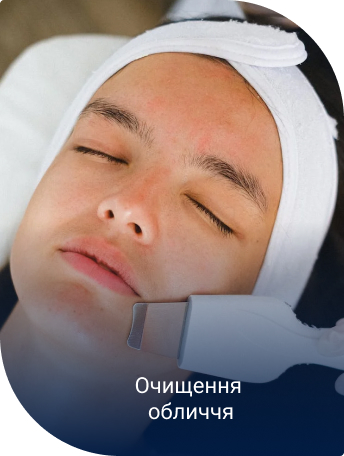
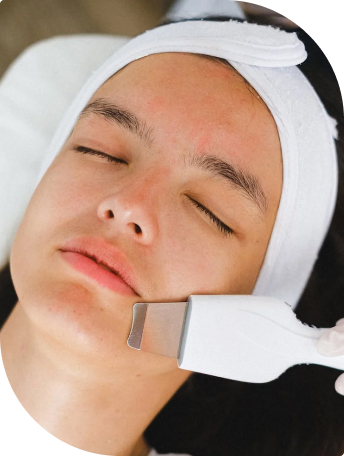
add styles

diff --git a/index.html b/index.html
@@ -11,10 +11,12 @@
       <nav>
         <a href="/"> <img src="./img/logo.svg" alt="Logo" /></a>
         <ul>
-          <li><a href="" target="_blank">Про нас</a></li>
-          <li><a href="" target="_blank">Чому ми</a></li>
-          <li><a href="" target="_blank">Наші процедури</a></li>
-          <li><a href="" target="_blank">Контакти</a></li>
+          <li><a class="header-link" href="#about_us">Про нас</a></li>
+          <li><a class="header-link" href="#advantages">Чому ми</a></li>
+          <li>
+            <a class="header-link" href="#our-procedures">Наші процедури</a>
+          </li>
+          <li><a class="header-link" href="#contacts">Контакти</a></li>
         </ul>
       </nav>
       <div>
@@ -28,56 +30,66 @@
     <main>
       <section class="hero">
         <p>Косметологічна клініка</p>
-        <h1>beauty zone</h1>
-        <button type="submit">Замовити дзвінок</button>
-        <p>Запишись та отримай безкоштовну консультацію нашого косметолога</p>
+        <h1 class="hero-title">beauty zone</h1>
+        <button class="hero-btn" type="submit">Замовити дзвінок</button>
+        <p class="hero-text">
+          Запишись та отримай безкоштовну консультацію нашого косметолога
+        </p>
       </section>
-      <section class="about_us">
-        <h2>Перевтілюйтесь в <span>beauty zone!</span></h2>
-        <p>
+      <section class="about_us" id="about_us">
+        <h2 class="section-title">
+          Перевтілюйтесь в
+          <span class="brand-name-accent-light">beauty zone!</span>
+        </h2>
+        <p class="about_us_text">
           Наша косметологічна клініка пропонує вам професійні послуги з догляду
           за шкірою обличчя та тіла.
         </p>
-        <p>
-          B <span>beauty zone</span> ми гарантуємо найвищі стандарти якості та
-          приємний сервіс. Наші косметологічні процедури та препарати допоможуть
-          вам підтримувати свою красу та молодість. З нами краса назавжди!
+        <p class="about_us_text">
+          B <span class="about_us_accent">beauty zone</span> ми гарантуємо
+          найвищі стандарти якості та приємний сервіс. Наші косметологічні
+          процедури та препарати допоможуть вам підтримувати свою красу та
+          молодість. З нами краса назавжди!
         </p>
         <ul>
           <li><img src="./img/beauty_face-before.jpg" alt="" /></li>
           <li><img src="./img/beauty_face-after.jpg" alt="" /></li>
         </ul>
       </section>
-      <section class="advatages">
-        <h2>Чому люди <span>обирають нас</span></h2>
+      <section class="advantages" id="advantages">
+        <h2 class="section-title">
+          Чому люди <span class="accent">обирають нас</span>
+        </h2>
         <ul>
           <li>
-            <p>
+            <p class="advantages-text">
               Всі наші косметологи мають вищу медичну освіту та стаж роботи від
               5 років
             </p>
           </li>
           <li>
-            <p>
+            <p class="advantages-text">
               Використовуємо тільки професійне обладнання та косметику,
               перевірену часом
             </p>
           </li>
           <li>
-            <p>
+            <p class="advantages-text">
               Наша мета - підкреслити переваги та приховати недоліки, а не
               переробити
             </p>
           </li>
         </ul>
       </section>
-      <section class="our-procedures">
-        <h2>Наші <span>процедури</span></h2>
+      <section class="our-procedures" id="our-procedures">
+        <h2 class="section-title">
+          Наші <span class="accent">процедури</span>
+        </h2>
         <ul>
           <li>
             <article>
               <img src="./img/face-masks.jpg" alt="Маски для обличчя" />
-              <p>Маски для обличчя</p>
+              <p class="our-procedures-text">Маски для обличчя</p>
             </article>
           </li>
           <li>
@@ -86,19 +98,19 @@
                 src="./img/facial-injections.jpg"
                 alt="Ін'єкції для обличчя"
               />
-              <p>Ін'єкції для обличчя</p>
+              <p class="our-procedures-text">Ін'єкції для обличчя</p>
             </article>
           </li>
           <li>
             <article>
               <img src="./img/facial-cleansing.jpg" alt="Очищення обличчя" />
-              <p>Очищення обличчя</p>
+              <p class="our-procedures-text">Очищення обличчя</p>
             </article>
           </li>
         </ul>
       </section>
-      <section class="contacts">
-        <h2>Як нас <span>знайти</span></h2>
+      <section class="contacts" id="contacts">
+        <h2 class="section-title">Як нас <span class="accent">знайти</span></h2>
         <iframe
           src="https://www.google.com/maps/embed?pb=!1m18!1m12!1m3!1d2540.939879501607!2d30.51555397557875!3d50.442220487957584!2m3!1f0!2f0!3f0!3m2!1i1024!2i768!4f13.1!3m3!1m2!1s0x40d4cef8b5f6338d%3A0x25c7f06ad686451c!2z0LHRg9C7LiDQotCw0YDQsNGB0LAg0KjQtdCy0YfQtdC90LrQviwgNSwg0JrQuNC10LIsINCj0LrRgNCw0LjQvdCwLCAwMjAwMA!5e0!3m2!1sru!2snl!4v1730913976104!5m2!1sru!2snl"
           width="605"
@@ -108,10 +120,16 @@
           loading="lazy"
           referrerpolicy="no-referrer-when-downgrade"
         ></iframe>
-        <h3>Запишіться <span>безкоштовно</span> та отримайте подарунок</h3>
-        <button type="submit">Записатись безкоштовно</button>
-        <a href="#"
-          >Натискаючи на кнопку я погоджуюсь з політикою конфіденційності</a
+        <h3 class="form-title">
+          Запишіться <span class="accent">безкоштовно</span> та отримайте
+          подарунок
+        </h3>
+        <button class="hero-btn" type="submit">Записатись безкоштовно</button>
+        <a class="form-confidentiality" href="#"
+          >Натискаючи на кнопку я погоджуюсь
+          <span class="form-confidentiality-accent"
+            >з політикою конфіденційності</span
+          ></a
         >
       </section>
     </main>
@@ -119,24 +137,34 @@
       <nav>
         <a href="/"> <img src="./img/logo.svg" alt="Logo" /></a>
         <ul>
-          <li><a href="">Про нас</a></li>
-          <li><a href="">Чому ми</a></li>
-          <li><a href="">Наші процедури</a></li>
-          <li><a href="">Контакти</a></li>
+          <li><a class="footer-link" href="#about_us">Про нас</a></li>
+          <li><a class="footer-link" href="#advantages">Чому ми</a></li>
+          <li>
+            <a class="footer-link" href="#our-procedures">Наші процедури</a>
+          </li>
+          <li><a class="footer-link" href="#contacts">Контакти</a></li>
         </ul>
       </nav>
       <address>
         <ul>
           <li>
-            <a href="tel:+380960000007" target="_blank">+ 38 (096) 000 00 07</a>
+            <a class="footer-link" href="tel:+380960000007" target="_blank"
+              >+ 38 (096) 000 00 07</a
+            >
           </li>
           <li>
-            <a href="mailto:beautyzone@gmail.com" target="_blank"
+            <a
+              class="footer-link"
+              href="mailto:beautyzone@gmail.com"
+              target="_blank"
               >beautyzone@gmail.com</a
             >
           </li>
           <li>
-            <a href="https://maps.app.goo.gl/NSAtxtw9QFGaa5sU6" target="_blank"
+            <a
+              class="footer-link"
+              href="https://maps.app.goo.gl/NSAtxtw9QFGaa5sU6"
+              target="_blank"
               >Україна, м. Київ, вул. Тараса Шевченка 5</a
             >
           </li>
@@ -145,8 +173,10 @@
           <li><a href="https://www.instagram.com/" target="_blank"></a></li>
         </ul>
         <div>
-          <a href="#" target="_blank">Політика конфіденційності</a>
-          <p>&copy; 2022 Дані захищені</p>
+          <a class="footer-link" href="#" target="_blank"
+            >Політика конфіденційності</a
+          >
+          <p class="footer-copyright">&copy; 2022 Дані захищені</p>
         </div>
       </address>
     </footer>

diff --git a/styles/styles.css b/styles/styles.css
@@ -25,3 +25,122 @@
   font-weight: 700;
   src: url("../fonts/play-v19-latin-700.woff2") format("woff2");
 }
+
+:root {
+  --color-brand-light: #2b7fff;
+  --color-brand-dark: #011c44;
+  --color-white: #fff;
+  --color-black: #000000;
+  --color-grey: #747272;
+}
+
+body {
+  color: var(--color-brand-dark);
+  font-family: "Roboto", sans-serif;
+  font-size: 18px;
+  font-weight: 400;
+}
+ul {
+  list-style-type: none;
+}
+a {
+  text-decoration: none;
+}
+
+.header-link {
+  color: var(--color-brand-dark);
+}
+.header-link:hover {
+  color: var(--color-brand-light);
+  font-weight: 700;
+}
+
+.hero-title {
+  font-family: "Play", sans-serif;
+  font-weight: 700;
+  font-size: 140px;
+  line-height: 0.8;
+  text-transform: capitalize;
+  color: var(--color-brand-light);
+}
+.hero-btn {
+  border-radius: 32px;
+  font-family: var(--font-family);
+  font-weight: 600;
+  color: var(--color-white);
+  background-color: var(--color-brand-light);
+  border: 2px solid var(--color-brand-light);
+  cursor: pointer;
+}
+.hero-btn:hover {
+  background-color: transparent;
+  color: var(--color-brand-dark);
+}
+.hero-text {
+  font-size: 12px;
+  line-height: 1.5;
+  color: #4a4a4a;
+}
+/* About us */
+
+.section-title {
+  font-family: "Play", sans-serif;
+  font-weight: 700;
+  font-size: 64px;
+  color: var(--color-brand-dark);
+}
+.brand-name-accent-light {
+  text-transform: capitalize;
+  color: var(--color-brand-light);
+}
+.accent {
+  color: var(--color-brand-light);
+}
+.about_us_text {
+  font-size: 22px;
+  line-height: 1.7;
+}
+.about_us_accent {
+  font-weight: 600;
+  text-transform: capitalize;
+}
+
+.advantages-text {
+  line-height: 1.3;
+  color: #000;
+}
+/* Our-Procedures */
+.our-procedures-text {
+  font-size: 22px;
+  line-height: 1.18;
+  color: var(--color-white);
+}
+
+/* Contacts */
+.form-title {
+  font-weight: 600;
+  font-size: 22px;
+  color: var(--color-white);
+}
+
+.form-confidentiality {
+  font-size: 12px;
+  line-height: 1.5;
+  color: var(--color-grey);
+}
+
+.form-confidentiality-accent {
+  text-decoration: underline;
+  text-decoration-skip-ink: none;
+}
+
+/* Footer */
+
+.footer-link {
+  font-size: 16px;
+  color: var(--color-white);
+}
+.footer-copyright {
+  font-size: 13px;
+  color: var(--color-grey);
+}
